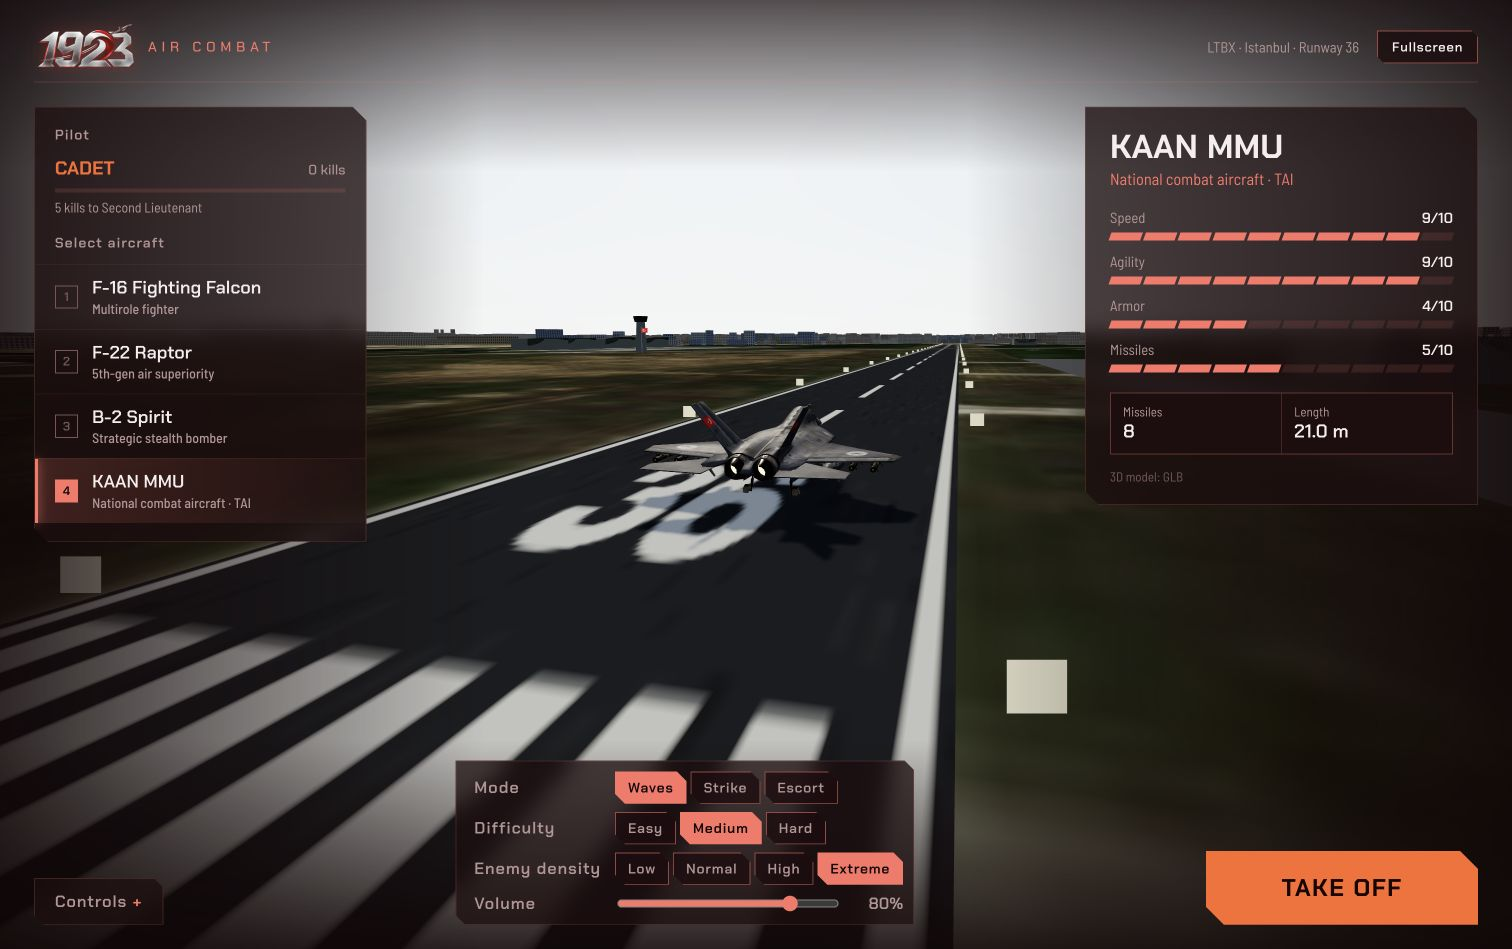
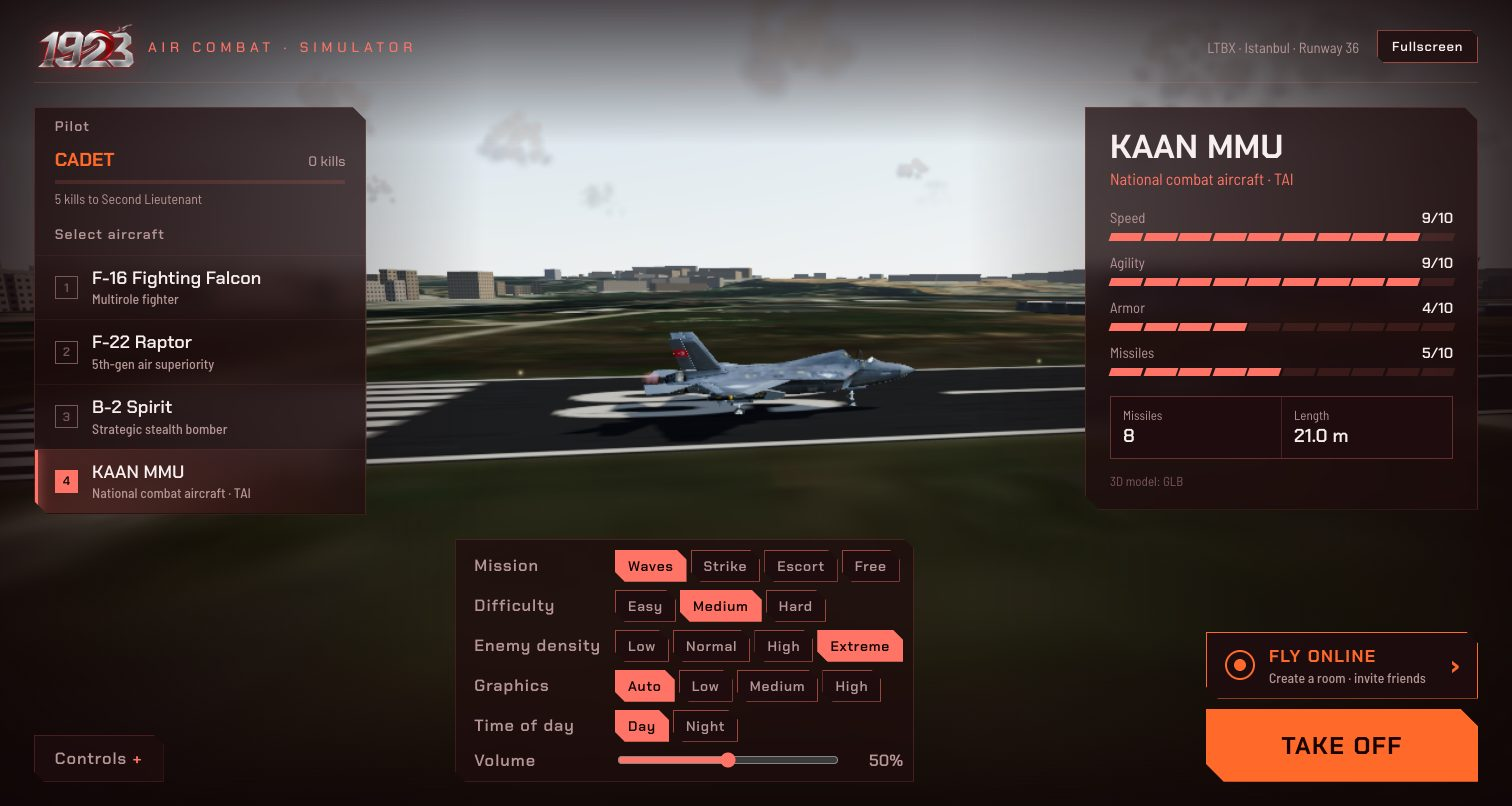
docs: add online play screenshots and refresh the menu shot

diff --git a/README.md b/README.md
@@ -8,7 +8,7 @@
 
 **Browser-based flight and combat simulator over the skies of Istanbul**
 
-Take off from the Turkish Air Base (LTBX), shoot down enemy waves, and land back on the runway in one piece.
+Take off from the Turkish Air Base (LTBX), shoot down enemy waves, and land back on the runway in one piece. Or send your friends a room link and dogfight each other online.
 
 [![Live Demo](https://img.shields.io/badge/Live%20Demo-Play%20now-2ea44f?style=for-the-badge)](https://1923-air-combat.enesbuyuk.com)
 
@@ -45,11 +45,20 @@ Take off from the Turkish Air Base (LTBX), shoot down enemy waves, and land back
 
 ## Screenshots
 
-Captured from the game running locally. Click an image to view it at full size.
+Click an image to view it at full size.
 
 | Aircraft selection | KAAN over Istanbul |
 |:---:|:---:|
-| [![Aircraft selection menu with KAAN MMU on runway 36](docs/screenshots/aircraft-selection.jpg)](docs/screenshots/aircraft-selection.jpg) | [![KAAN banking over Istanbul with the chase camera and flight HUD](docs/screenshots/kaan-flight.jpg)](docs/screenshots/kaan-flight.jpg) |
+| [![Aircraft selection menu with KAAN MMU on runway 36 and the Fly online card above Take off](docs/screenshots/aircraft-selection.jpg)](docs/screenshots/aircraft-selection.jpg) | [![KAAN banking over Istanbul with the chase camera and flight HUD](docs/screenshots/kaan-flight.jpg)](docs/screenshots/kaan-flight.jpg) |
+
+| Online room with its invite link | Invitation from a friend |
+|:---:|:---:|
+| [![Online room screen with the room code, night setting, invite link and pilot list](docs/screenshots/online-room.jpg)](docs/screenshots/online-room.jpg) | [![Invitation screen: Enes invited you to a night room, with Accept and Decline](docs/screenshots/online-invite.jpg)](docs/screenshots/online-invite.jpg) |
+
+<p align="center">
+  <a href="docs/screenshots/online-night.jpg"><img src="docs/screenshots/online-night.jpg" alt="Night runway in an online room: another pilot's F-22, tagged with their callsign on the HUD, fires at the player; the Tab scoreboard is open" width="80%" /></a>
+  <br /><b>Night room: another pilot opens fire</b>
+</p>
 
 | F-22 climb in Escort mode | Cockpit view and flight HUD |
 |:---:|:---:|
@@ -73,6 +82,7 @@ Captured from the game running locally. Click an image to view it at full size.
 - **Missiles with real energy:** proportional navigation guidance, a rocket motor that burns for a few seconds and then coasts, drag that grows with air density, fins that lose authority when slow, and a seeker gimbal limit. A late, slow missile can be out-turned; a distant fleeing target cannot be run down.
 - **Countermeasures and warning:** fighters carry their aircraft’s missile load from the first wave. Air-to-air infrared seekers are passive and do not trigger the RWR; radar-guided SAM locks do. The missile warning system needs line of sight and detects threats within 8 km. Flares can seduce IR missiles, while radar-guided SAMs must be evaded or masked by terrain/buildings.
 - **Missions:** endless *Waves*, *Strike* (destroy the SAM sites of each target area; they fire at anything above their radar horizon, so fly low) *Escort* (protect a friendly B-2 around its route) and *Free* (no enemies, just fly).
+- **Online rooms:** create a room (day or night, guns only or guns + missiles), share the invite link, and up to 8 friends fly free-for-all against each other with a live scoreboard. See [Online Play](#online-play).
 - **Kill cam:** after being shot down, the last seconds replay in slow motion.
 - **Day and night:** the *Time of day* setting (menu or pause screen) switches to a moonlit night with stars, a dark haze, lit windows across the city and glowing runway edge lights; every aircraft shows red/green position lights, white tail light, double-flashing strobes and a red beacon, and with the gear down a landing light that lights the runway ahead of the player. Afterburners and explosions stand out. It can be changed mid-flight.
 - **Fixed-step simulation:** the core always advances 1/60 s per step regardless of frame rate, and rendering interpolates between steps.
